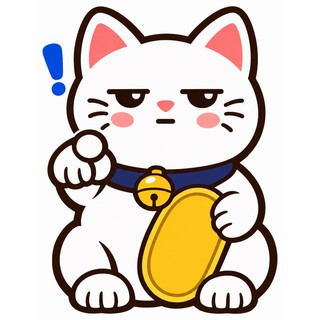
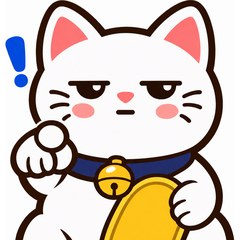
招財貓改顯示上半身，新增連續 15、30 天反應

diff --git a/index.html b/index.html
@@ -365,7 +365,7 @@ table.team .muted{color:var(--muted)}
 #jiaWrap{position:fixed;right:max(18px,env(safe-area-inset-right,0px));bottom:calc(18px + env(safe-area-inset-bottom,0px));z-index:35;display:flex;flex-direction:column;align-items:flex-end;gap:8px;pointer-events:none}
 #jia{pointer-events:auto;display:grid;place-items:center;width:78px;height:78px;padding:0;border-radius:50%;background:#FFFFFF;overflow:hidden;border:3px solid var(--jc,var(--gold));box-shadow:0 8px 22px -6px rgba(21,28,44,.45);cursor:pointer;transition:transform .12s}
 #jia:hover{transform:scale(1.06)}#jia:focus-visible{outline:3px solid var(--gold);outline-offset:3px}
-#jia img{width:66px;height:66px;display:block}
+#jia img{width:100%;height:100%;display:block}
 #jiaSay{pointer-events:auto;position:relative;width:min(290px,calc(100vw - 36px));background:var(--surface);color:var(--ink);border:2px solid var(--jc,var(--gold));border-radius:14px;padding:11px 32px 11px 13px;font-size:14.5px;line-height:1.55;box-shadow:0 10px 26px -10px rgba(21,28,44,.4)}
 #jiaSay::after{content:"";position:absolute;right:30px;bottom:-8px;width:13px;height:13px;background:var(--surface);border-right:2px solid var(--jc,var(--gold));border-bottom:2px solid var(--jc,var(--gold));transform:rotate(45deg)}
 #jiaSay b{display:block;font-size:12.5px;font-weight:700;color:var(--jc,var(--gold));margin-bottom:1px}
@@ -380,7 +380,7 @@ table.team .muted{color:var(--muted)}
 @keyframes jtilt{0%,60%,100%{transform:rotate(0)}70%{transform:rotate(-7deg)}85%{transform:rotate(6deg)}}
 @keyframes jshake{0%,100%{transform:translateX(0)}25%{transform:translateX(-2px) rotate(-2deg)}75%{transform:translateX(2px) rotate(2deg)}}
 @media (prefers-reduced-motion:reduce){.j-happy,.j-remind,.j-worry,.j-angry,.j-rage{animation:none}}
-@media (max-width:560px){#jia{width:68px;height:68px}#jia img{width:58px;height:58px}}
+@media (max-width:560px){#jia{width:68px;height:68px}}
 .bookbar{margin-top:20px;display:flex}
 .bookbar .seg button{padding:10px 22px;font-size:15px;font-weight:500}
 .add-why{display:flex;gap:8px;margin-top:8px}.add-why .inp{flex:1;min-width:0}
@@ -569,7 +569,7 @@ table.team .muted{color:var(--muted)}
 <div id="jiaWrap" hidden><div id="jiaSay" role="status"></div><button type="button" id="jia"></button></div>
 
 <script src="https://cdnjs.cloudflare.com/ajax/libs/xlsx/0.18.5/xlsx.full.min.js"></script>
-<script type="module" src="./app.js?v=20261105"></script>
+<script type="module" src="./app.js?v=20261105b"></script>
 <script>
   // 若 15 秒後仍未載入（網路或瀏覽器封鎖），提示使用者
   setTimeout(function(){ if(!window.__booted){ var m=document.getElementById("bootMsg"); if(m) m.innerHTML="載入時間過長。請確認網路連線，或改用 Safari／Chrome 開啟此網址。<br><br><button class=\"btn\" onclick=\"location.reload()\">重新整理</button>"; } },15000);

diff --git a/app.js b/app.js
@@ -1135,6 +1135,8 @@ async function clearDemo(){for(const c of [...Ctx.my.values()].filter(c=>c.demo)
 /* ---------- 招財貓：依經營狀況變表情，週末不計沒經營的天數 ---------- */
 const CATS={
   deal:{g:"good",anim:"j-happy",title:"恭喜成交！",say:()=>"今天的財運都被你招來了，我的金幣舉不動了！"},
+  streak30:{g:"good",anim:"",title:"有神快拜",say:x=>`連續 ${x.streak} 天！有神快拜，小貓在此跪拜。`},
+  streak15:{g:"good",anim:"j-happy",title:"太狠了",say:x=>`連續 ${x.streak} 天！這個毅力，我的金幣都要發光了。`},
   streak7:{g:"good",anim:"j-happy",title:"招財本人",say:x=>`連續 ${x.streak} 天都有經營，你就是招財本人。`},
   busy:{g:"good",anim:"j-happy",title:"今天超拚",say:x=>`今天已經記了 ${x.n} 筆，太拚了，記得喝口水。`},
   streak3:{g:"good",anim:"j-happy",title:"手感很好",say:x=>`連續 ${x.streak} 天了，手感不錯，繼續招財！`},
@@ -1157,7 +1159,7 @@ function catCalc(dates,n,deal,now){
   const weekend=d=>d.getDay()===0||d.getDay()===6;
   // 連續天數：週末有記就加一天，沒記也不算斷
   const run=from=>{let s=0;for(let i=from;i<800;i++){const d=dayAt(i);if(dates.has(key(d)))s++;else if(!weekend(d))break}return s};
-  if(n>0){const streak=run(0),x={n,streak};return{k:deal?"deal":streak>=7?"streak7":n>=5?"busy":streak>=3?"streak3":"base",x}}
+  if(n>0){const streak=run(0),x={n,streak};return{k:deal?"deal":streak>=30?"streak30":streak>=15?"streak15":streak>=7?"streak7":n>=5?"busy":streak>=3?"streak3":"base",x}}
   const we=weekend(now),idle=()=>we?{k:"rest",x:{}}:{k:now.getHours()>=20?"night":"todo",x:{prev:run(1)}};
   if(!dates.size)return idle();
   // 沒經營的天數：從上一筆紀錄到昨天之間，有幾個工作日沒紀錄
@@ -1178,7 +1180,7 @@ function catRender(){
   wrap.hidden=!show;if(!show)return;
   const st=catNow(),s=CATS[st.k];catLast=st.k;
   wrap.style.setProperty("--jc",CAT_HOT[st.k]||CAT_COLOR[s.g]);
-  $("#jia").innerHTML=`<img class="${s.anim}" src="./cat/${s.img||st.k}.jpg?v=1" alt="">`;
+  $("#jia").innerHTML=`<img class="${s.anim}" src="./cat/${s.img||st.k}.jpg?v=2" alt="">`;
   $("#jia").setAttribute("aria-label",`招財貓：${s.title}。打開行動清單`);
   const stale=[...Ctx.my.values()].filter(c=>inBook(c)&&isStale(c)).length,say=$("#jiaSay");
   say.hidden=catHidden(st.k);
